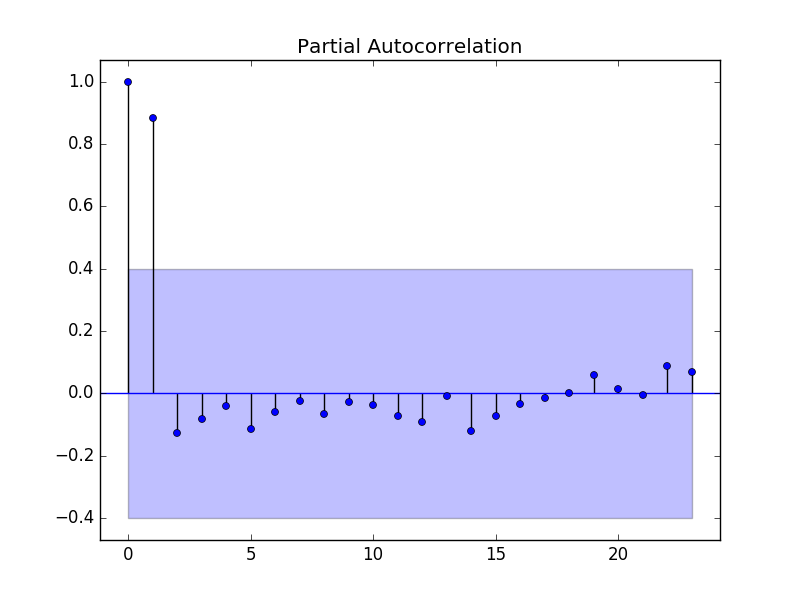
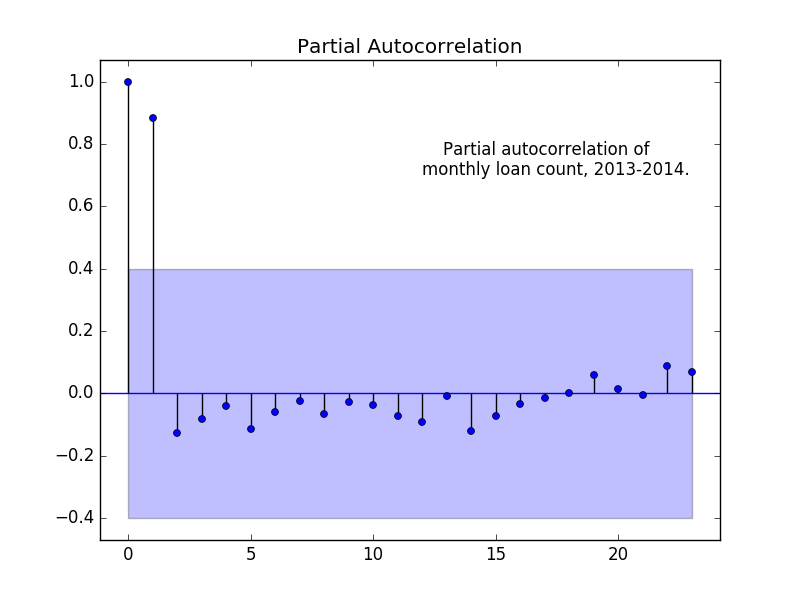
clean up plots

Changed region(s): [[0.5312, 0.24, 0.875, 0.3]]

diff --git a/time_series.py b/time_series.py
@@ -63,12 +63,16 @@ print loan_count
 
 print 'starting initial plots ...',
 plt.clf()
-loan_count.plot()  # 12 or 24 values, w/o NaN
-# time axis labels need adjusting
+# loan_count.plot()  # 12 or 24 values w/o NaN
+# loan_count.plot(figsize=(8, 7))  # 24 values w/o NaN; increase y figsize
+loan_count.plot(figsize=(8, 5.2))  # 24 values w/o NaN; default figsize(8,6)
+# decrease y-axis figsize to crop out time axis variable
+plt.text(loan_count.index[2], 12500, 'Monthly loan count\n   by issue date')
 plt.savefig(plotdir+'loan_monthly_count.png')
 
 plt.clf()
 sm.graphics.tsa.plot_acf(loan_count)
+plt.text(12 ,0.5, 'Autocorrelation of monthly\n  loan count, 2013-2014.')
 # plt.show()
 plt.savefig(plotdir+'loan_monthly_acf.png')
 
@@ -80,6 +84,7 @@ sm.graphics.tsa.plot_pacf(loan_count)  # default fails w/ ints, ok w/ dates
 # sm.graphics.tsa.plot_pacf(loan_count, method='ldb')  # works
 # sm.graphics.tsa.plot_pacf(loan_count, method='ols')  # fails w/ ints, dates
 
+plt.text(12 ,0.7, '    Partial autocorrelation of\nmonthly loan count, 2013-2014.')
 plt.savefig(plotdir+'loan_monthly_pacf.png')
 
 print 'done'
@@ -136,9 +141,9 @@ def arima_analysis(p, d, q):
 
 
 print 'Starting ARIMA analyses'
-arima_analysis(1, 0, 0)
-arima_analysis(1, 1, 0)
-# arima_analysis(2, 0, 0)
+# arima_analysis(1, 0, 0)
+# arima_analysis(1, 1, 0)
+arima_analysis(2, 0, 0)
 # help(arima_analysis)   # test help output
 print 'ARIMA analyses done.'
 print '\nCONCLUSION: It seems that the ARIMA(1, 0, 0) model best fits the data.'
@@ -147,6 +152,9 @@ print 'Other models tried seem to overfit, leading to no significant improvement
 
 
 '''
+Note the data is somewhat artificial.  Data from 2012-01 to 2013-12
+is more or less linear, while data from 2014-01 to 2014-12 seems random.
+
 data from 2012-01 to 2013-12, dataset 3b, more or less linear
 24145     2602
 24146     2560
